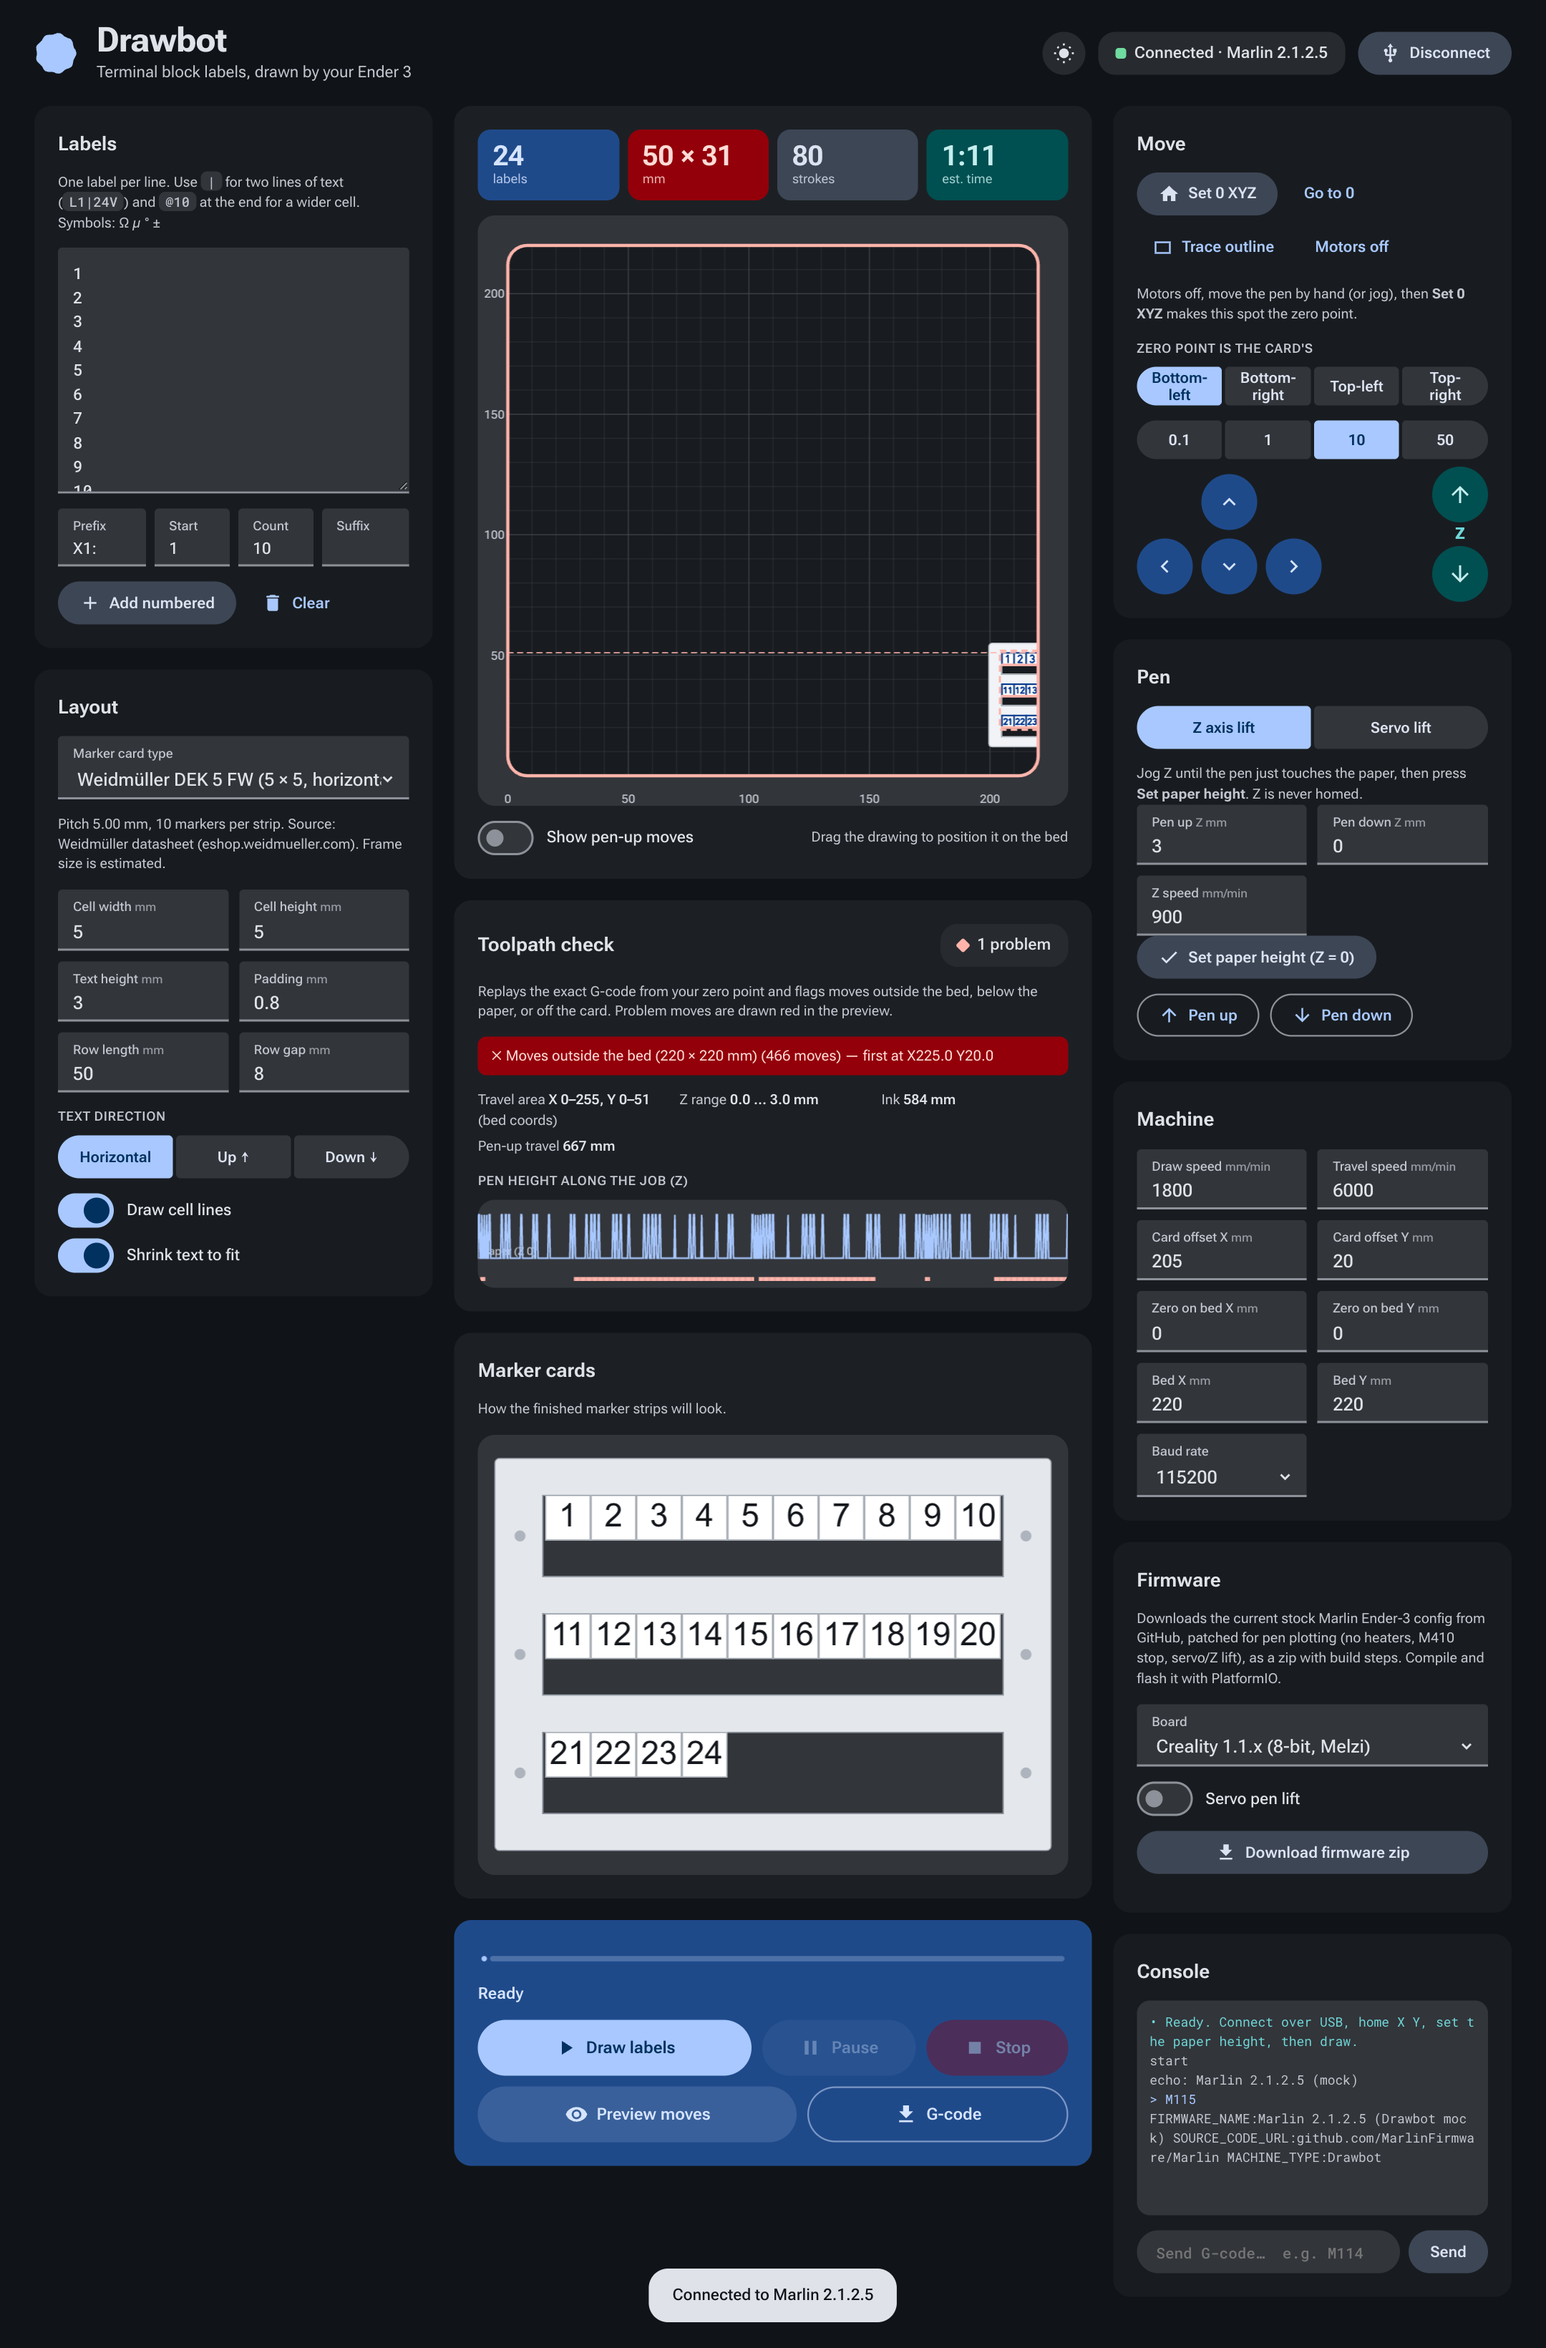
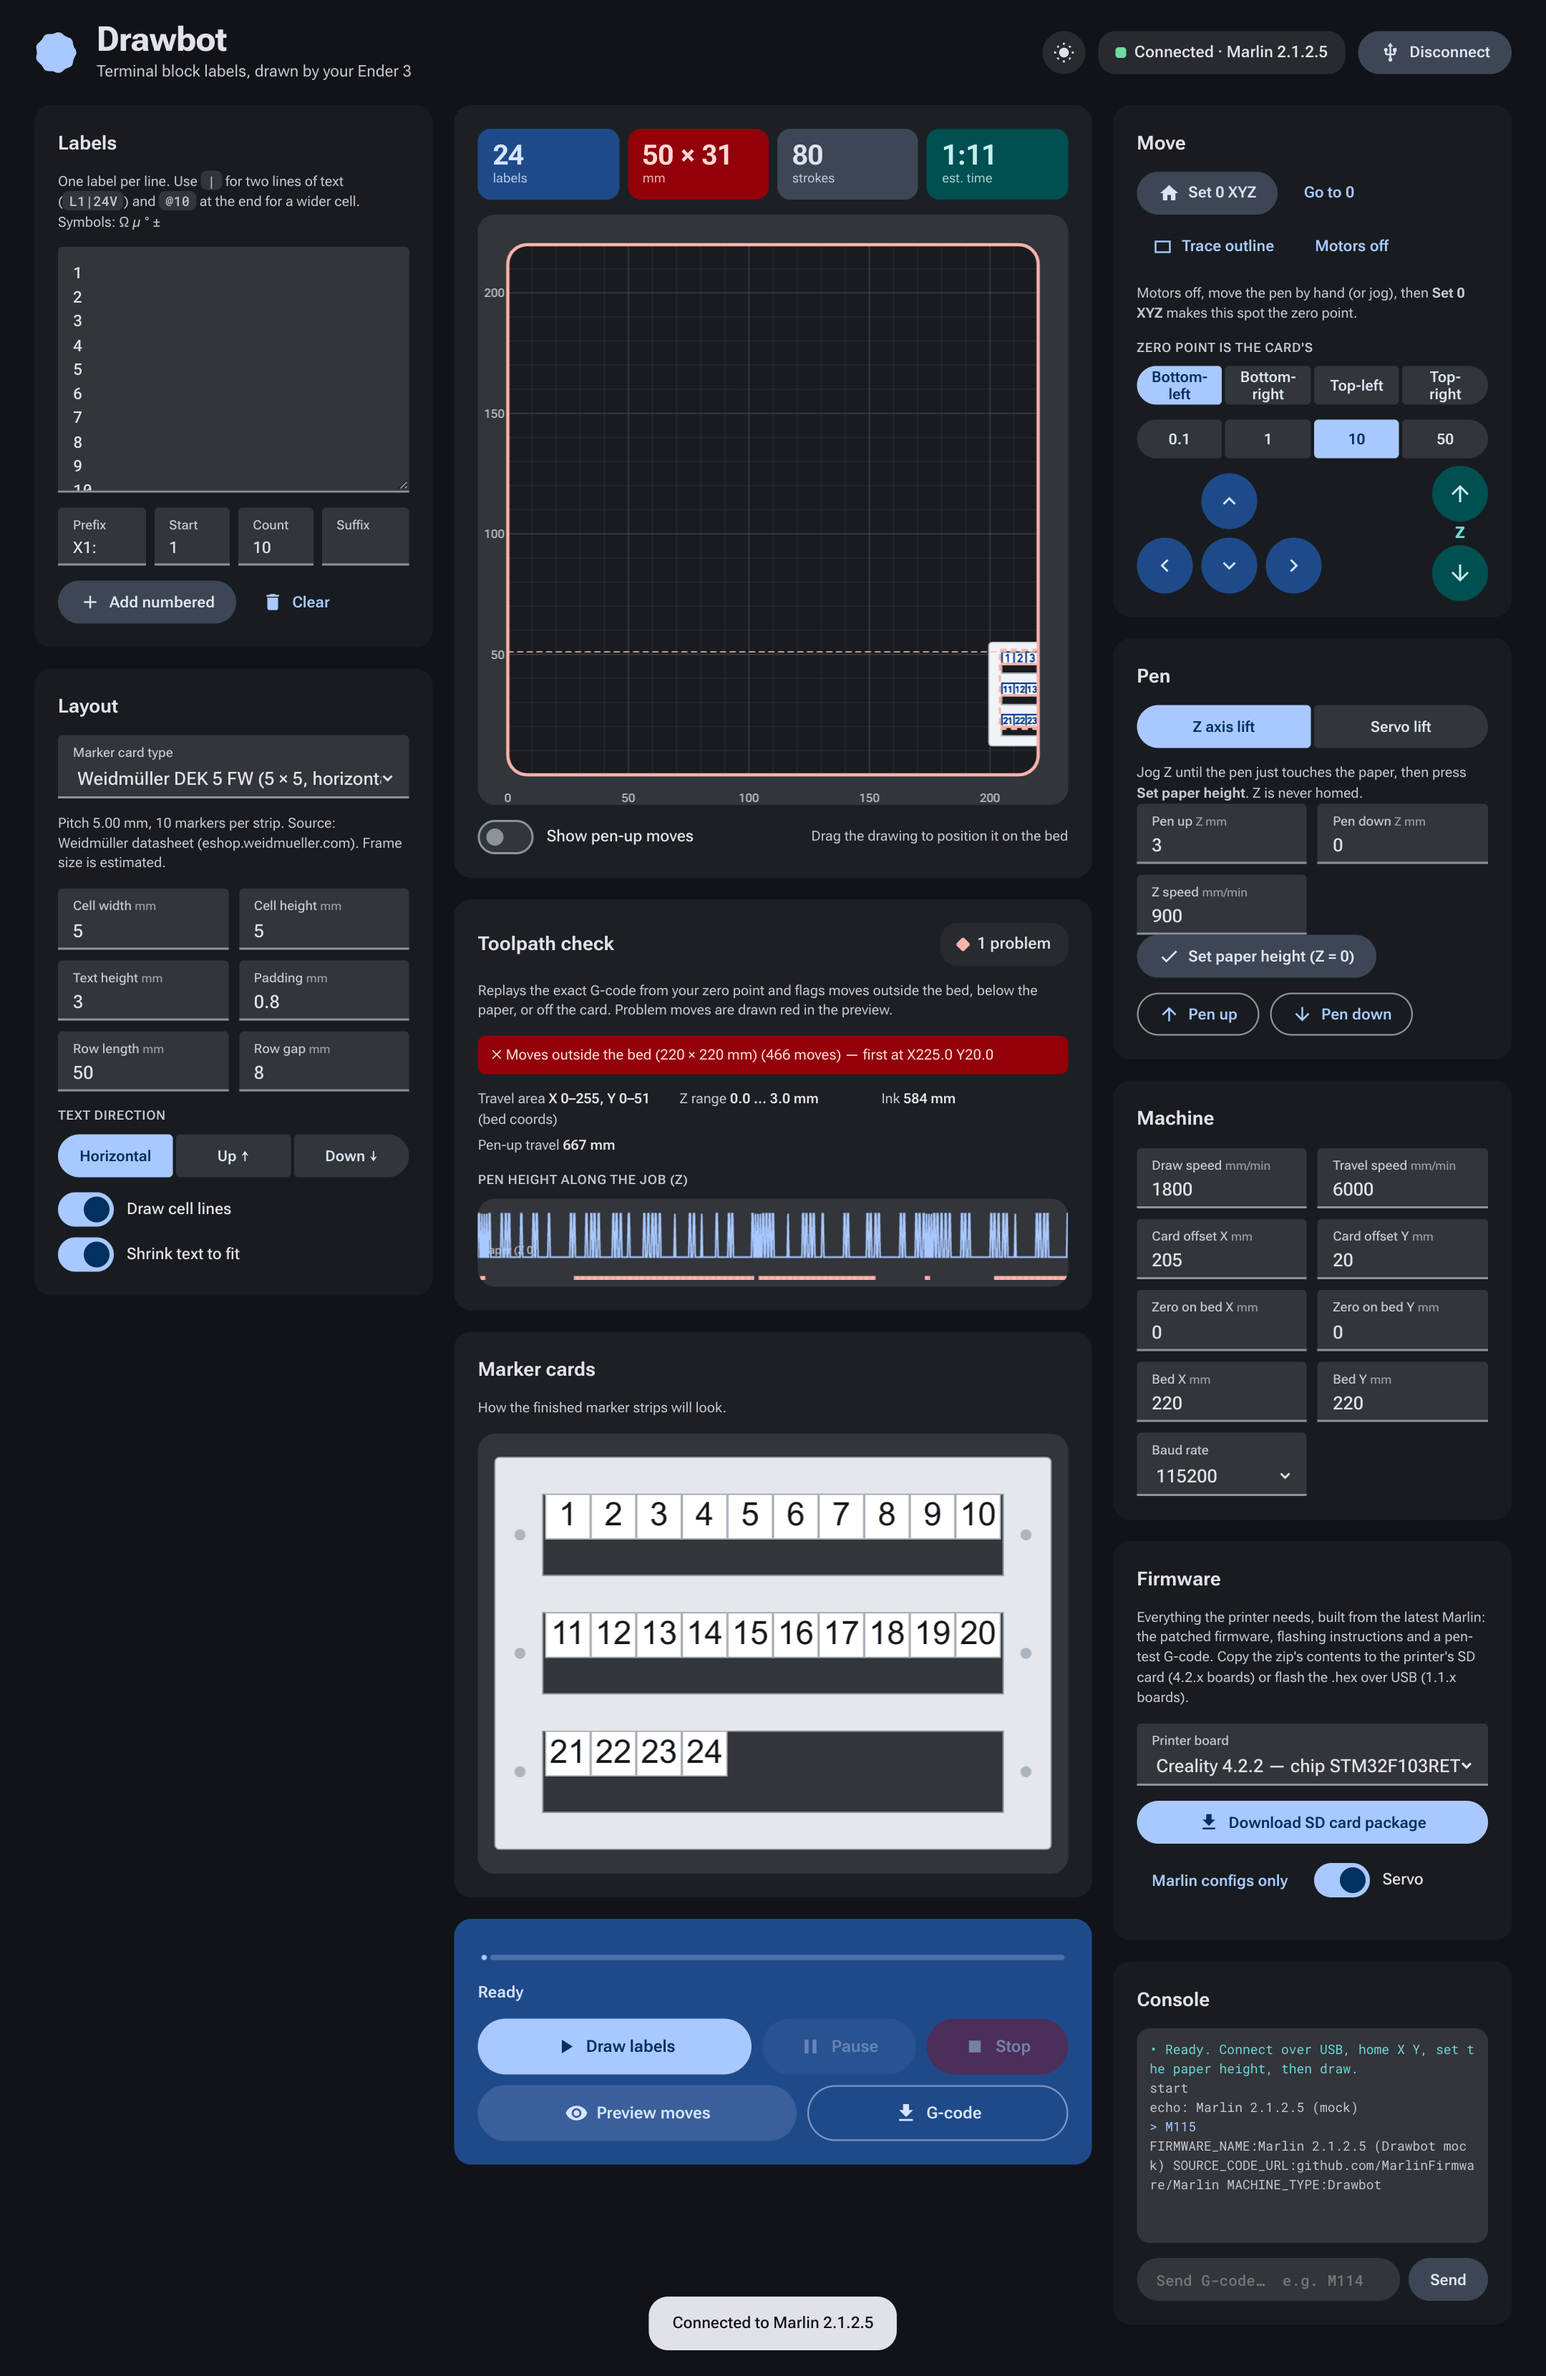
SD-card firmware packages: CI workflow builds Marlin per board, packaged with flashing instructions and pen tests; Firmware card links to them

diff --git a/web/app.js b/web/app.js
@@ -555,14 +555,25 @@
   Object.keys(SEGS).forEach(id => setSeg(id, segVal(id)));
   relayout(); kickWave();
   // ---------------------------------------------------------------- firmware download
-  $('fwBoard').innerHTML = Object.entries(window.DBFirmware.BOARDS).map(([k, v]) => `<option value="${k}">${v}</option>`).join('');
-  $('btnFirmware').onclick = async () => {
-    const btn = $('btnFirmware'); btn.disabled = true; $('fwNote').textContent = 'Fetching the latest config from GitHub…';
+  const FW_RELEASE = 'https://github.com/douggreenak/drawbot/releases/latest/download/';
+  const FW_PKGS = {
+    'CrealityV422-RET6': 'Creality 4.2.2 — chip STM32F103RET6', 'CrealityV422-RCT6': 'Creality 4.2.2 — chip STM32F103RCT6',
+    'CrealityV427-RET6': 'Creality 4.2.7 — chip STM32F103RET6', 'CrealityV427-RCT6': 'Creality 4.2.7 — chip STM32F103RCT6',
+    'CrealityV1-melzi': 'Creality 1.1.x (8-bit, USB flash)',
+  };
+  $('fwBoard').innerHTML = Object.entries(FW_PKGS).map(([k, v]) => `<option value="${k}">${v}</option>`).join('');
+  $('btnFirmware').onclick = () => {
+    const pkg = $('fwBoard').value;
+    const a = document.createElement('a'); a.href = `${FW_RELEASE}drawbot-sd-${pkg}.zip`; a.download = `drawbot-sd-${pkg}.zip`; a.click();
+    $('fwNote').textContent = /melzi/.test(pkg) ? 'Unzip, then flash the .hex over USB (see READ-ME-FIRST.txt).' : 'Unzip onto a FAT32 SD card (32 GB or less), put it in the powered-off printer, then switch on. See READ-ME-FIRST.txt.';
+  };
+  $('btnConfigs').onclick = async () => {
+    const btn = $('btnConfigs'); btn.disabled = true; $('fwNote').textContent = 'Fetching the latest config from GitHub…';
     try {
-      const r = await window.DBFirmware.build($('fwBoard').value, $('fwServo').checked);
+      const r = await window.DBFirmware.build($('fwBoard').value.split('-')[0], $('fwServo').checked);
       const a = document.createElement('a'); a.href = URL.createObjectURL(r.blob); a.download = r.filename; a.click();
       const miss = r.report.filter(l => l.startsWith('MISS'));
-      $('fwNote').textContent = miss.length ? `Downloaded, but ${miss.length} setting(s) were not found in the current Marlin config: ${miss.join('; ')}. Check them by hand.` : `Downloaded ${r.filename}. All ${r.report.length} changes applied.`;
+      $('fwNote').textContent = miss.length ? `Downloaded, but ${miss.length} setting(s) were not found: ${miss.join('; ')}.` : `Downloaded ${r.filename}: patched Marlin config (you still need to compile it).`;
     } catch (e) { $('fwNote').textContent = 'Could not download: ' + e.message; }
     btn.disabled = false;
   };

diff --git a/web/index.html b/web/index.html
@@ -216,10 +216,13 @@
 
     <article class="card">
       <h2>Firmware</h2>
-      <p class="hint">Downloads the current stock Marlin Ender-3 config from GitHub, patched for pen plotting (no heaters, M410 stop, servo/Z lift), as a zip with build steps. Compile and flash it with PlatformIO.</p>
-      <label class="field"><span>Board</span><select id="fwBoard"></select></label>
-      <div class="switches"><label class="switch"><input type="checkbox" id="fwServo"><i></i><span>Servo pen lift</span></label></div>
-      <button class="btn tonal" id="btnFirmware"><svg><use href="#i-download"/></svg><span>Download firmware zip</span></button>
+      <p class="hint">Everything the printer needs, built from the latest Marlin: the patched firmware, flashing instructions and a pen-test G-code. Copy the zip's contents to the printer's SD card (4.2.x boards) or flash the .hex over USB (1.1.x boards).</p>
+      <label class="field"><span>Printer board</span><select id="fwBoard"></select></label>
+      <button class="btn filled" id="btnFirmware"><svg><use href="#i-download"/></svg><span>Download SD card package</span></button>
+      <div class="row">
+        <button class="btn text" id="btnConfigs"><span>Marlin configs only</span></button>
+        <label class="switch"><input type="checkbox" id="fwServo" checked><i></i><span>Servo</span></label>
+      </div>
       <p class="hint" id="fwNote"></p>
     </article>
 

diff --git a/docs/TEST_RESULTS.md b/docs/TEST_RESULTS.md
@@ -70,7 +70,7 @@ Generated by `tests/e2e.js` (headless Chrome → real UI → simulated Marlin, `
 | ✅ | layout produced every label | (40/40 labels, 133 strokes, 1294 mm of ink) |
 | ✅ | design fits on the bed | (100×28 mm at 20,20) |
 | ✅ | connected and detected Marlin | ("Connected · Marlin 2.1.2.5") |
-| ✅ | every G-code line was acknowledged | (2110/2110 commands in 0.3s) |
+| ✅ | every G-code line was acknowledged | (2110/2110 commands in 0.2s) |
 | ✅ | never overflowed Marlin's 128-byte RX buffer | (peak 78 bytes, 0 overflows) |
 | ✅ | ink length matches design | (1293.7 mm drawn vs 1293.6 mm designed) |
 | ✅ | one pen-down per stroke | (133/133) |
@@ -87,7 +87,7 @@ Generated by `tests/e2e.js` (headless Chrome → real UI → simulated Marlin, `
 | ✅ | layout produced every label | (1/1 labels, 2 strokes, 9 mm of ink) |
 | ✅ | design fits on the bed | (5×5 mm at 20,20) |
 | ✅ | connected and detected Marlin | ("Connected · Marlin 2.1.2.5") |
-| ✅ | every G-code line was acknowledged | (14/14 commands in 0.0s) |
+| ✅ | every G-code line was acknowledged | (14/14 commands in 0.1s) |
 | ✅ | never overflowed Marlin's 128-byte RX buffer | (peak 70 bytes, 0 overflows) |
 | ✅ | ink length matches design | (8.5 mm drawn vs 8.5 mm designed) |
 | ✅ | one pen-down per stroke | (2/2) |

diff --git a/README.md b/README.md
@@ -31,7 +31,7 @@ Results with images of what the simulated pen drew: **[docs/TEST_RESULTS.md](doc
 This validates the software and the G-code protocol handling, not real hardware or Marlin's actual motion.
 
 ## 0. Hosted
-The `web/` folder is a static site (see `vercel.json`); on Vercel it runs over https, which Web Serial needs, so there is no local server to start. The **Firmware** card downloads the current stock Marlin config from GitHub, patched in the browser.
+The `web/` folder is a static site (see `vercel.json`); on Vercel it runs over https, which Web Serial needs, so there is no local server to start. The **Firmware** card downloads a ready-to-copy SD-card package per board (built by `.github/workflows/firmware.yml` from the latest Marlin and published to the `latest` release), or just the patched Marlin configs.
 
 ## 1. Run the app locally
 ```
